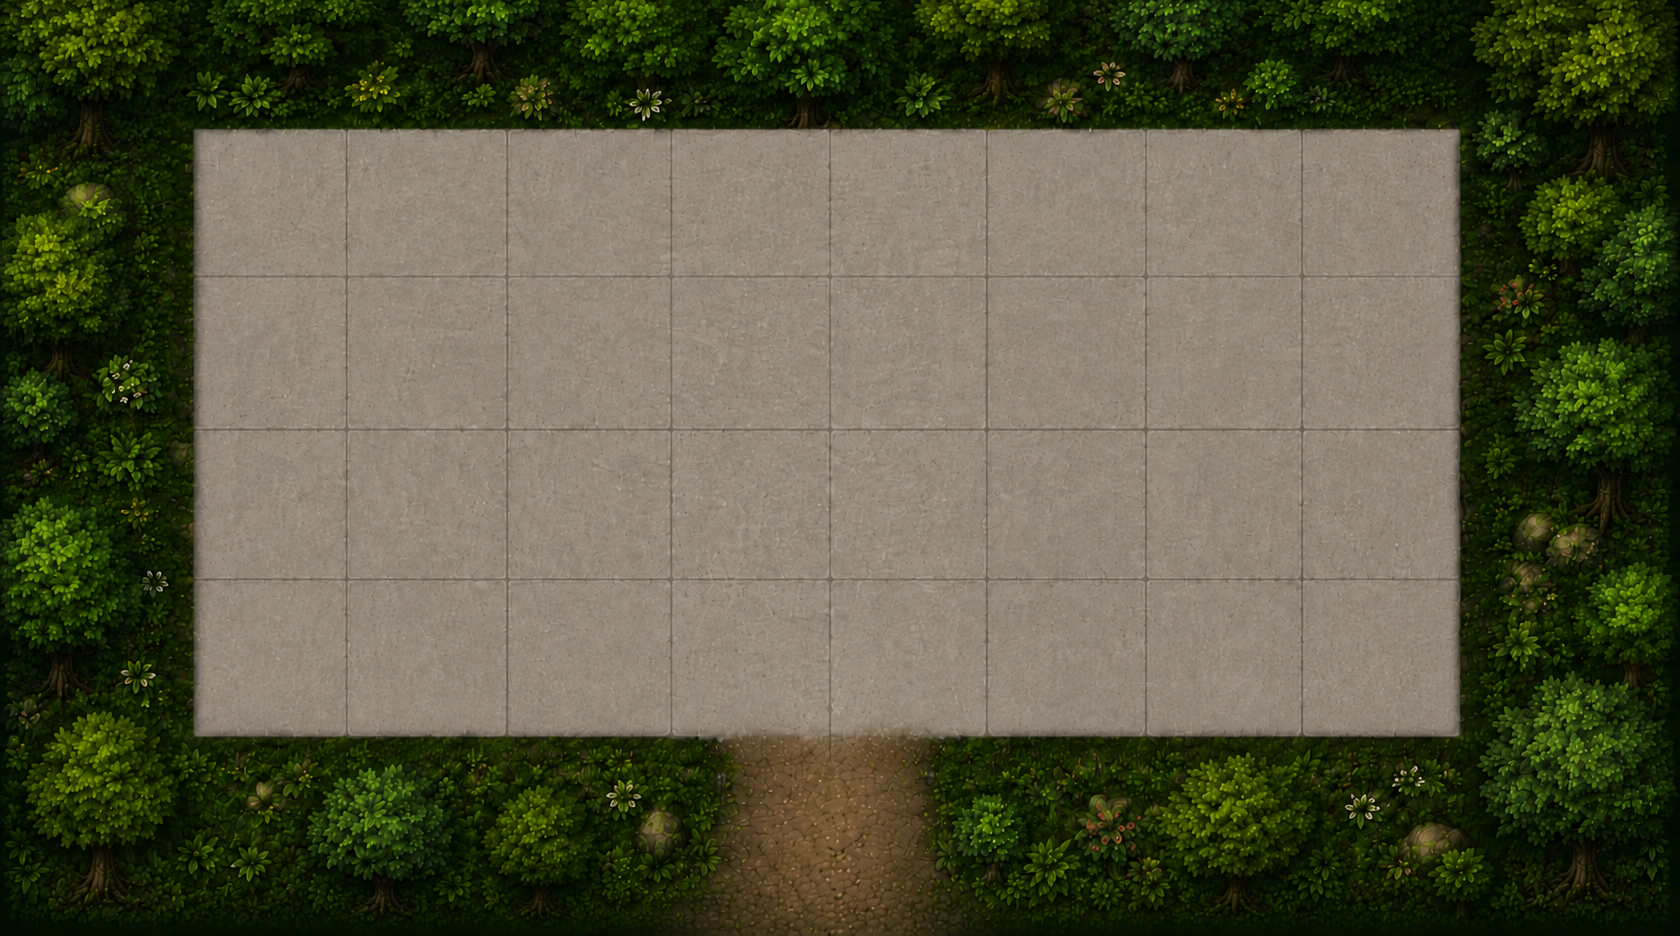
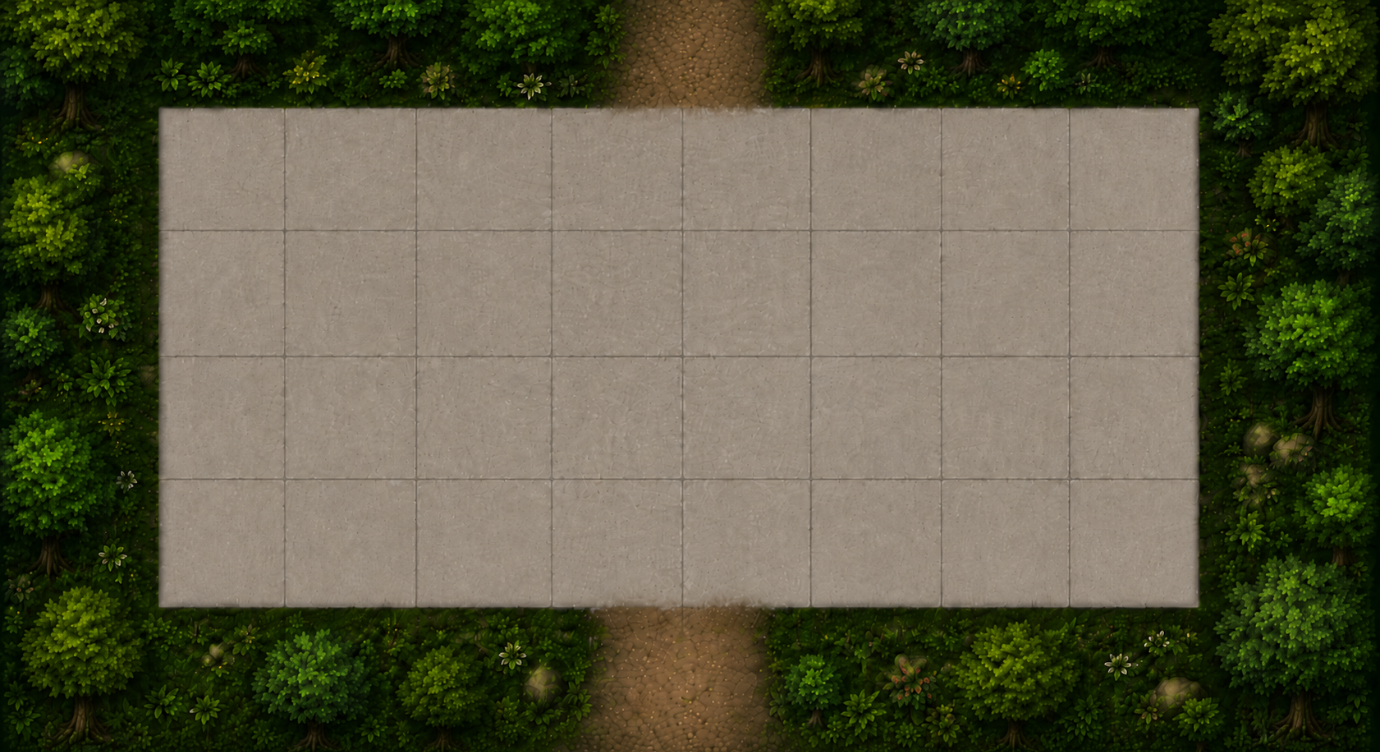
Nivel tres listo, menu en proceso

diff --git a/core/src/main/java/com/juego/progra/Mapas/HUD.java b/core/src/main/java/com/juego/progra/Mapas/HUD.java
@@ -8,14 +8,25 @@ import com.badlogic.gdx.scenes.scene2d.Stage;
 import com.badlogic.gdx.scenes.scene2d.ui.Image;
 import com.badlogic.gdx.scenes.scene2d.ui.Table;
 import com.badlogic.gdx.scenes.scene2d.utils.TextureRegionDrawable;
+import com.badlogic.gdx.utils.viewport.FitViewport;
 import com.badlogic.gdx.utils.viewport.ScreenViewport;
 
+import com.badlogic.gdx.scenes.scene2d.ui.ImageButton;
+import com.badlogic.gdx.scenes.scene2d.utils.ClickListener;
+import com.badlogic.gdx.scenes.scene2d.InputEvent;
+
 public class HUD {
+    private MenuConf menu;
     // Corazones
     private Texture corazonLleno;
     private Texture corazonVacio;
 
-    // Texturas pre-cargadas por nivel (Evita fugas de memoria)
+    //Botones
+    private ImageButton btnPausa;
+    private Texture texturePausa;
+    private Texture texturePausaAb;
+
+    //Texturas de los Objetos por nivel
     private Texture[] grisNivel1, colorNivel1;
     private Texture[] grisNivel2, colorNivel2;
     private Texture[] grisNivel3, colorNivel3;
@@ -46,13 +57,34 @@ public class HUD {
     public HUD() {
         corazonLleno = new Texture("CorazonLleno.png");
         corazonVacio = new Texture("CorazonVacio.png");
-        stage = new Stage(new ScreenViewport());
+        stage = new Stage(new FitViewport(1550, 780));
+        menu = new MenuConf(stage);
 
         texturaPaneles = new Texture[]{
             new Texture("panelPrimero.png"),
             new Texture("panelSegundo.png"),
             new Texture("panelTercero.png")
         };
+
+        // Botones
+        texturePausa = new Texture("btnPausa.png");
+        texturePausaAb = new Texture("btnPausaAb.png");
+
+        ImageButton.ImageButtonStyle estiloBtn = new ImageButton.ImageButtonStyle();
+        estiloBtn.imageUp = new TextureRegionDrawable(new TextureRegion(texturePausa));
+        estiloBtn.imageDown = new TextureRegionDrawable(new TextureRegion(texturePausaAb));
+
+        btnPausa = new ImageButton(estiloBtn);
+        btnPausa.setPosition(20, 630);
+        btnPausa.setSize(150, 150);
+
+        btnPausa.addListener(new ClickListener() {
+            @Override
+            public void clicked(InputEvent event, float x, float y) {
+                menu.cambiarVisibilidad();
+            }
+        });
+        stage.addActor(btnPausa);
 
         tablaPanel = new Table();
         tablaPanel.setBackground(new TextureRegionDrawable(new TextureRegion(texturaPaneles[0])));
@@ -203,10 +235,17 @@ public class HUD {
         stage.dispose();
         corazonLleno.dispose();
         corazonVacio.dispose();
+        if (texturePausa != null) texturePausa.dispose();
+        if (texturePausaAb != null) texturePausaAb.dispose();
         for(Texture t : texturaPaneles) t.dispose();
         for(Texture t : grisNivel1) t.dispose();
         for(Texture t : colorNivel1) t.dispose();
         for(Texture t : grisNivel2) t.dispose();
         for(Texture t : colorNivel2) t.dispose();
+
+    }
+
+    public Stage getStage() {
+        return stage;
     }
 }

diff --git a/core/src/main/java/com/juego/progra/Main.java b/core/src/main/java/com/juego/progra/Main.java
@@ -36,15 +36,9 @@ public class Main extends Game {
         mapa.setHud(HUD);
         jugador = new Jugador(220, 300);
 
-        // HERRAMIENTA DE DEBUG: al hacer clic imprime la coordenada del mundo
-        Gdx.input.setInputProcessor(new com.badlogic.gdx.InputAdapter() {
-            @Override
-            public boolean touchDown(int screenX, int screenY, int pointer, int button) {
-                int yCorregida = Gdx.graphics.getHeight() - screenY;
-                System.out.println("clic, " + screenX + ", " + yCorregida);
-                return true;
-            }
-        });
+        com.badlogic.gdx.InputMultiplexer multiplexer = new com.badlogic.gdx.InputMultiplexer();
+        multiplexer.addProcessor(HUD.getStage());
+        Gdx.input.setInputProcessor(multiplexer);
 
         cambiarNivel(1);
     }
@@ -126,6 +120,14 @@ public class Main extends Game {
         HUD.dibujarCorazones(batch, jugador.getVidas());
         batch.end();
         HUD.render();
+    }
+    @Override
+    public void resize(int width, int height) {
+        super.resize(width, height);
+        // Si HUD es accesible desde Main, actualiza su viewport:
+        if (HUD != null && HUD.getStage() != null) {
+            HUD.getStage().getViewport().update(width, height, true);
+        }
     }
 
     @Override

diff --git a/core/src/main/java/com/juego/progra/Mapas/MenuConf.java b/core/src/main/java/com/juego/progra/Mapas/MenuConf.java
@@ -1,0 +1,31 @@
+package com.juego.progra.Mapas;
+
+import com.badlogic.gdx.graphics.Texture;
+import com.badlogic.gdx.graphics.g2d.TextureRegion;
+import com.badlogic.gdx.scenes.scene2d.InputEvent;
+import com.badlogic.gdx.scenes.scene2d.Stage;
+import com.badlogic.gdx.scenes.scene2d.ui.ImageButton;
+import com.badlogic.gdx.scenes.scene2d.ui.Table;
+import com.badlogic.gdx.scenes.scene2d.utils.ClickListener;
+import com.badlogic.gdx.scenes.scene2d.utils.TextureRegionDrawable;
+
+public class MenuConf {
+    private Table tabla;
+    private Stage stage;
+
+
+    public MenuConf(Stage stage) {
+        tabla = new Table();
+        tabla.setFillParent(true);
+        this.stage=stage;
+
+
+        tabla.setBackground(new TextureRegionDrawable(new TextureRegion(new Texture("fondoMenu.png"))));
+        stage.addActor(tabla);
+        tabla.setVisible(false);
+    }
+    public void cambiarVisibilidad() {
+        tabla.setVisible(!tabla.isVisible());
+    }
+
+}
